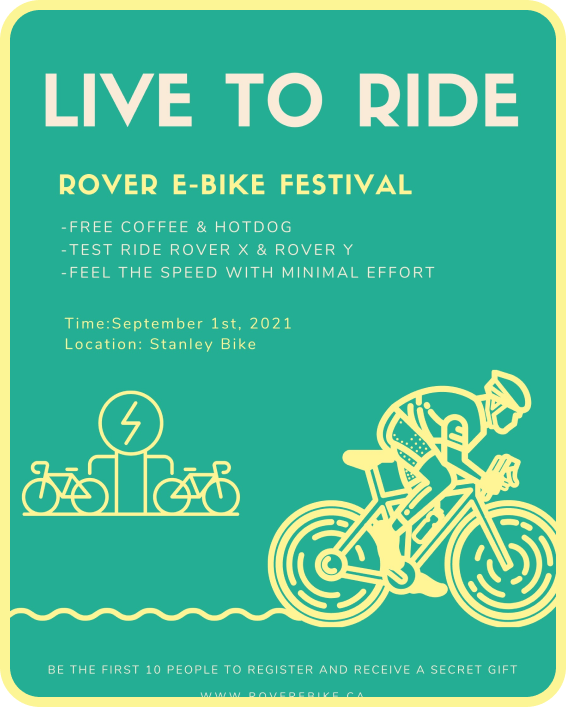
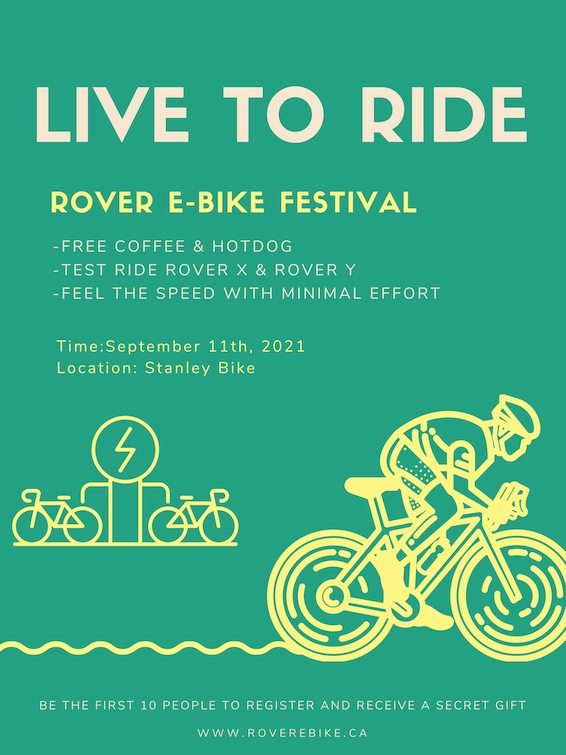
Blog page date changes

diff --git a/src/pages/about-us/index.js b/src/pages/about-us/index.js
@@ -24,13 +24,17 @@ class AboutUsPage extends React.Component {
         <div className="main-content">
           <video
             poster={this.isMobile ? posterMobile : false}
-            src={this.isMobile ? "https://amplify-amplify6164c245e3204-staging-204824-deployment.s3.us-east-2.amazonaws.com/movies/rover-e-Bike-short-mobile.mp4" : "https://amplify-amplify6164c245e3204-staging-204824-deployment.s3.us-east-2.amazonaws.com/movies/rover-e-Bike-short.mp4"} 
+            src={
+              this.isMobile
+                ? "https://amplify-amplify6164c245e3204-staging-204824-deployment.s3.us-east-2.amazonaws.com/movies/rover-e-Bike-short-mobile.mp4"
+                : "https://amplify-amplify6164c245e3204-staging-204824-deployment.s3.us-east-2.amazonaws.com/movies/rover-e-Bike-short.mp4"
+            }
             autoPlay={true}
             muted={this.isMobile ? "muted" : false}
             onLoad
             playsInline
-            webkit-playsinline            
-            ></video>
+            webkit-playsinline
+          ></video>
         </div>
 
         <div className="row">
@@ -88,7 +92,7 @@ class AboutUsPage extends React.Component {
               content:
                 "Bring your bike and your smile. Join us on our 1st ever social 100 KM bike event. Together we will ride the world. <br/><br/>" +
                 "Snacks and coffee will be provided at the meet up place! <br/><br/>" +
-                "Date: September 1st, 2021" +
+                "Date: September 11st, 2021" +
                 "Location: Stanley Park",
             },
           ]}

diff --git a/src/pages/blog/index.js b/src/pages/blog/index.js
@@ -4,7 +4,7 @@ import "./index.css";
 import setTitle from "../../tools.js";
 
 import liveToRideImage from "../../assets/images/blog-page-live-to-ride.png";
-import liveToRideImageMobile from "../../assets/images/blog-page-live-to-ride-mobile.png";
+import liveToRideImageMobile from "../../assets/images/blog-page-live-to-ride.png";
 const BlogPage = () => {
   useEffect(() => {
     setTitle("Blog");
@@ -21,7 +21,7 @@ const BlogPage = () => {
             <div className="live-to-ride-mobile">
               <img src={liveToRideImageMobile} />
             </div>
-            <strong>When:</strong> September 1 , 2021
+            <strong>When:</strong> September 11 , 2021
             <br />
             <strong>Time:</strong> 12pm
             <br />

diff --git a/src/pages/blog/index.css b/src/pages/blog/index.css
@@ -32,8 +32,18 @@
   display: none;
 }
 
+.blog-page .live-to-ride-mobile img {
+  width: 100%;
+}
+
 .blog-page .live-to-ride {
   display: block;
+}
+
+.blog-page .live-to-ride img {
+  border-radius: 20px;
+  overflow: hidden;
+  border: 7px solid #fbf595;
 }
 
 .blog-page .blog-area .blog-content {
